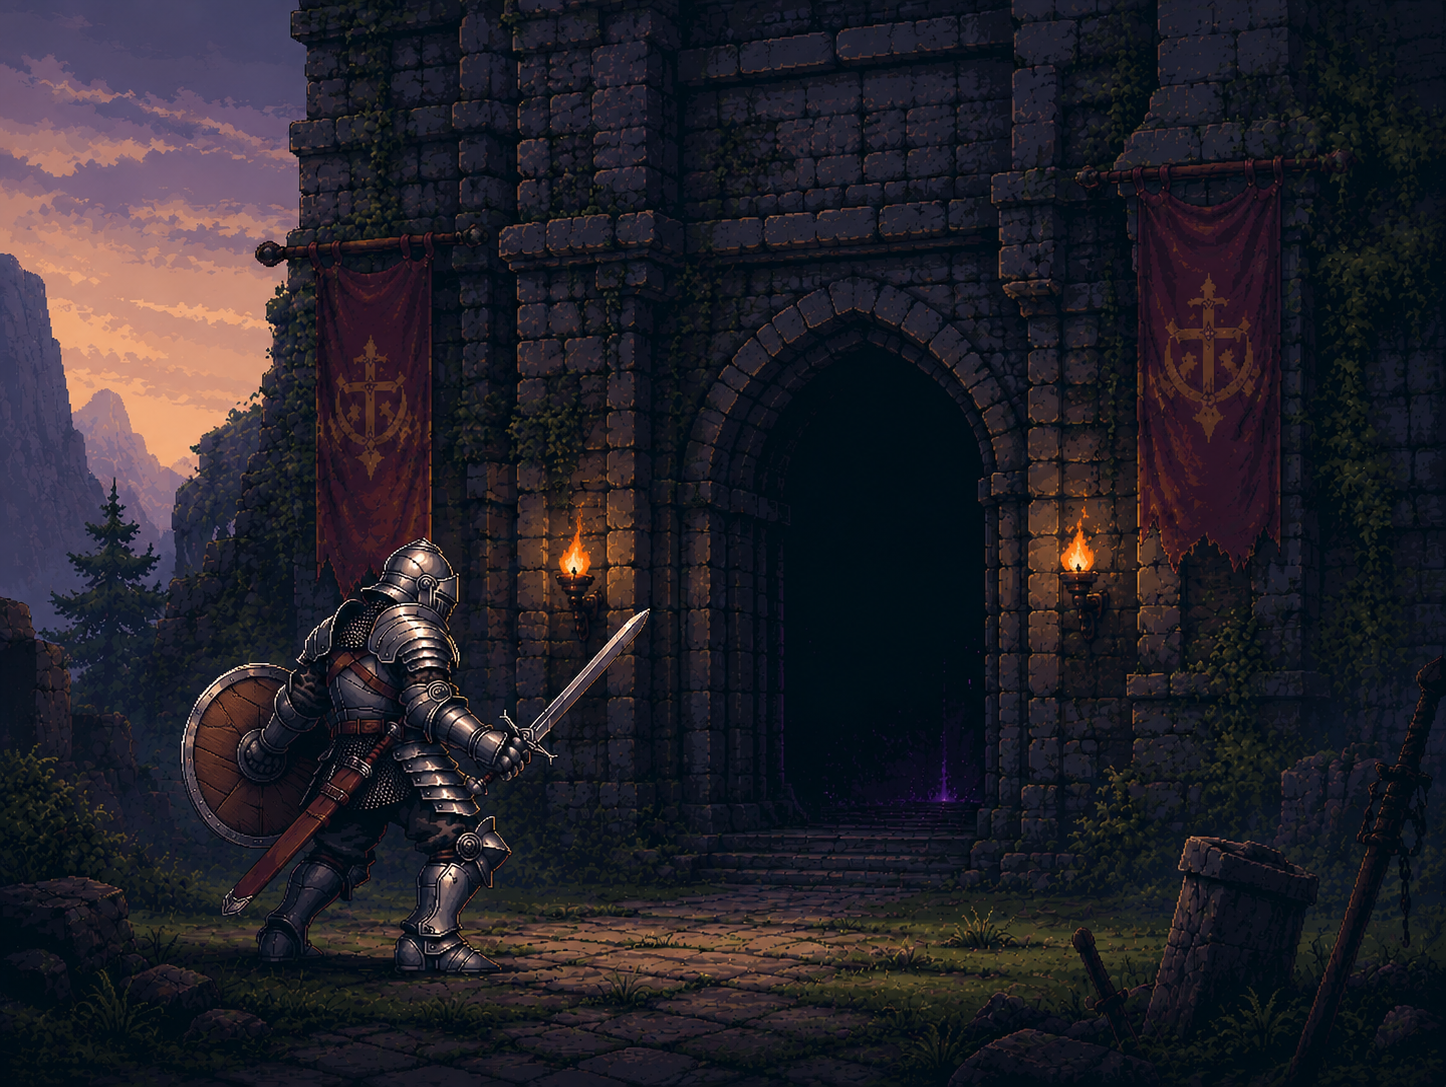
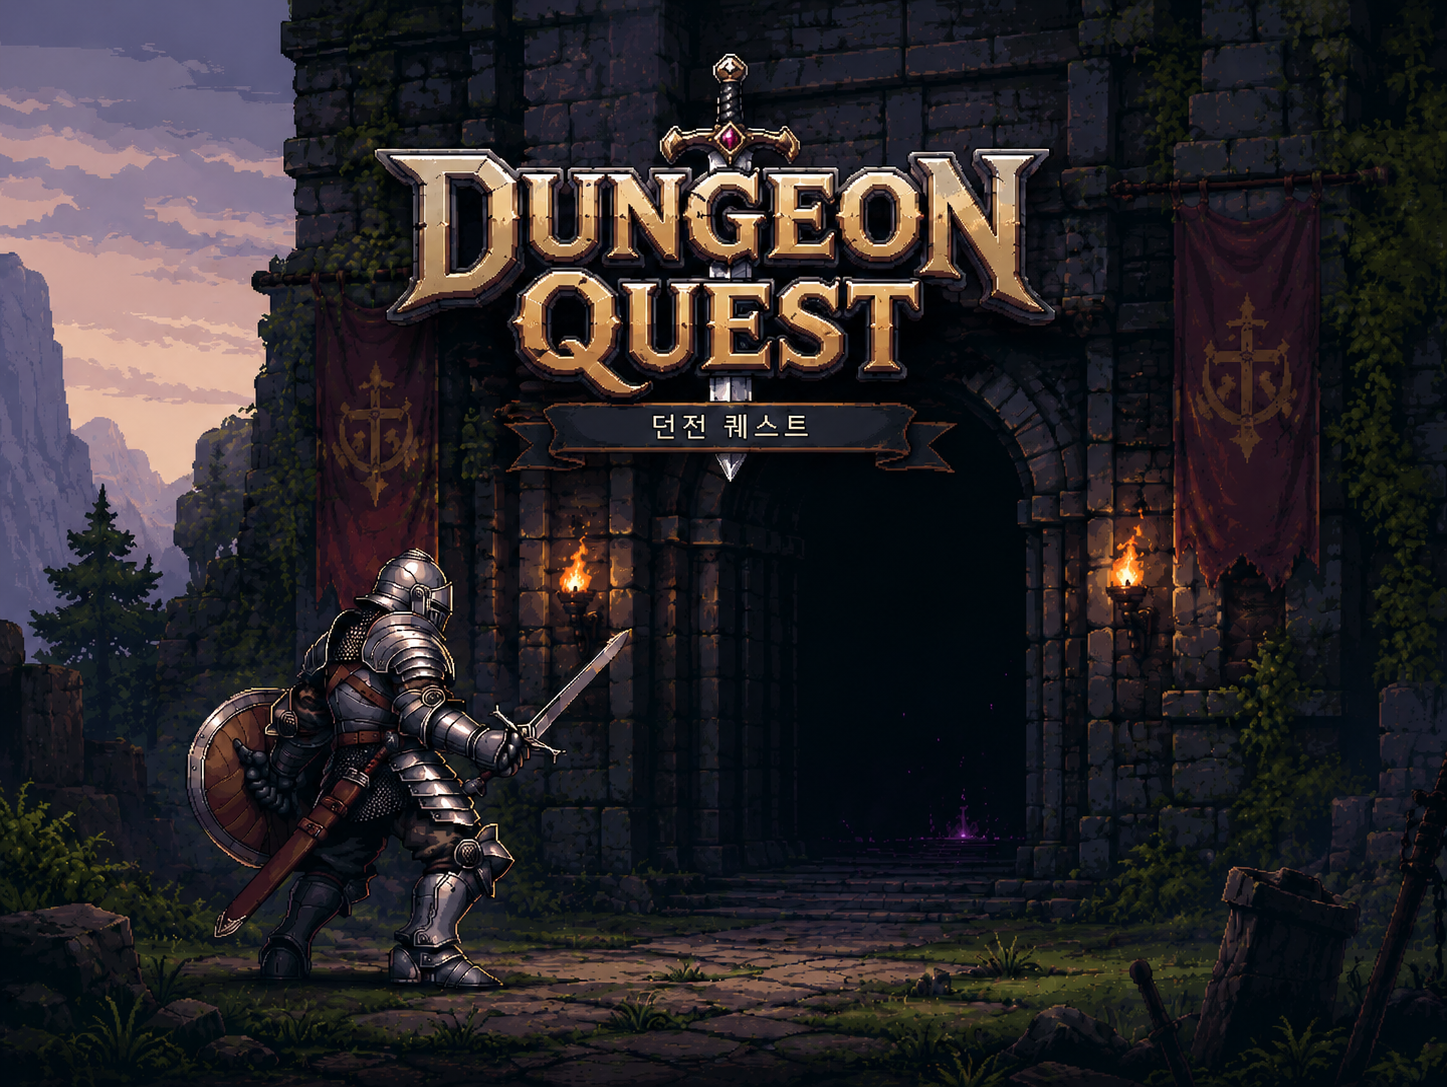
fix - UI 수정
- background 이미지 변경
- 토글 추가

diff --git a/D2DTextRoguelike/TitleScene.cpp b/D2DTextRoguelike/TitleScene.cpp
@@ -23,7 +23,7 @@ void TitleScene::Initialize()
     }
 
     auto startBtn = std::make_unique<UIButton>(L"Game Start", 300.0f, 50.0f);
-    startBtn->SetLocalPosition(EngineConfig::SCREEN_CENTER_X - (300.0f / 2.0f), EngineConfig::SCREEN_CENTER_Y);
+    startBtn->SetLocalPosition(EngineConfig::SCREEN_CENTER_X - (300.0f / 2.0f), EngineConfig::SCREEN_CENTER_Y + 200.f);
     startBtn->SetOnClick([]()
         {
             SceneManager::Instance().ChangeScene(L"PlayScene");
@@ -31,7 +31,7 @@ void TitleScene::Initialize()
 
 
     auto exitBtn = std::make_unique<UIButton>(L"Exit Game", 300.0f, 50.0f);
-    exitBtn->SetLocalPosition(EngineConfig::SCREEN_CENTER_X - (300.0f / 2.0f), EngineConfig::SCREEN_CENTER_Y + 50.0f);
+    exitBtn->SetLocalPosition(EngineConfig::SCREEN_CENTER_X - (300.0f / 2.0f), EngineConfig::SCREEN_CENTER_Y + 250.0f);
     exitBtn->SetOnClick([]()
         {
             PostQuitMessage(0);

diff --git a/D2DTextRoguelike/UIButton.cpp b/D2DTextRoguelike/UIButton.cpp
@@ -49,6 +49,7 @@ void UIButton::Update(float deltaTime)
     }
 }
 
+
 void UIButton::Render(myspace::D2DRenderer* pRenderer, TextRenderer* pTextRenderer)
 {
     if (!m_isActive || !m_isVisible) return;